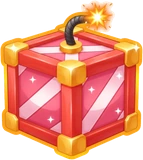
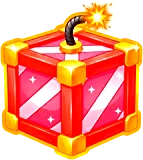
v324: car and rocket are seen crossing the board (they were never added to the screen), smaller and faster; glossier car, rocket and bombs; car on a coral tile, sweeper on a green tile; Candy Climb gives every helper; cart race background fix

diff --git a/app.js b/app.js
@@ -702,7 +702,7 @@
      Sugar Stars: a new level won without losing a heart gives a star; 10 stars open a surprise prize.
      First win of the day: the first level won each day pays double coins. ---------- */
   let cake = store.get('cake', { n: 0 }), sugar = store.get('sugar', { n: 0 });
-  { const pre = new Image(); pre.src = 'art/ic_bomb.webp'; }   // the cake's bomb picture is ready before the first bomb lands
+  { const pre = new Image(); pre.src = 'art/ic_bomb.webp?3'; }   // the cake's bomb picture is ready before the first bomb lands
   const CAKE_MAX = 3, SUGAR_AT = 10, CAKE_FROM = 10;   // Gumi's Cake opens at level 10: wins before it build nothing
   const cakeOpen = () => level >= CAKE_FROM;
   const cakeReveal = (k, size) => Math.min(k, Math.max(1, size - 3));   // at least three candies are always left to find
@@ -1137,7 +1137,7 @@
       if (s === 2) el.innerHTML = '<svg class="candy" style="--idur:' + (3 + Math.random() * 2.5).toFixed(1) + 's;--idelay:' + (0.4 + Math.random() * 1.6).toFixed(1) + 's"><use href="#c' + cur.cmap[cur.regions[y][x]] + '"/></svg>';
       else if (s === 1) el.innerHTML = '<span class="x' + (wrongX ? ' bad' : '') + '"></span>';
       else if (s === 3) el.innerHTML = QMARK;
-      else if (bomb) el.innerHTML = '<img class="cbomb" src="art/ic_bomb.webp" alt="" draggable="false">';
+      else if (bomb) el.innerHTML = '<img class="cbomb" src="art/ic_bomb.webp?3" alt="" draggable="false">';
       else el.innerHTML = '';
     }
     drawFound();
@@ -1329,7 +1329,7 @@
     if (m[1] === 'hop') window.CandokuDebug.hop(3, 4); else if (m[1] === 'coins') { show('home'); window.scrollTo(0, 0); window.CandokuDebug.flyCoins(40); }
     const at = location.search.match(/at=([\d.]+)/); if (at) setTimeout(() => document.getAnimations().forEach((x) => { const e = x.effect && x.effect.target; if (e && e.closest && e.closest('.hopper,.hopshadow,#fx')) { x.pause(); x.currentTime = +at[1]; } }), 80);
   }, 1500);
-  if (location.search.includes('dbg')) window.CandokuDebug = { cakeBuild: (n) => cakeBuild(n, $('medCake')), bonus9: () => openBonus(), plan: (lv) => { const p = boardPlan(lv); return { n: p.n, seeds: p.seeds, rate: p.rate, tier: tierOf(lv), key: POOL_KEY(lv), idx: POOL_IDX[lv], pool: POOL_KEY(lv) ? ((SEEDS[POOL_KEY(lv)] || {})[p.n] || []).length : 0 }; }, lgprev: (pts, daysAgo) => { const d = new Date(); d.setDate(d.getDate() - (daysAgo || 1)); store.set('lgprev', { day: d.getFullYear() + '-' + String(d.getMonth() + 1).padStart(2, '0') + '-' + String(d.getDate()).padStart(2, '0'), pts, chase: null }); maybeLeagueResult(() => {}); }, prizes: () => openLeaguePrizes(), bump: (p) => leagueBump(p), chase: () => chase, chaseAge: (min) => { chase.t = Date.now() - min * 60000; }, league: (from) => { if (cur) cur.leagueFrom = from; openLeague(() => {}); }, leagueList: (p) => leagueList(p).map((e) => e.name + ':' + e.points), setPts: (p) => { freshScore(); score.points = p; store.set('score', score); }, boardMs: (lv) => { const t = performance.now(); makeBoard(lv); return Math.round(performance.now() - t); }, cached: () => Object.keys(savedBoards), waiting: () => Object.keys(boardWait), worker: () => !!bWorker, toast: (t) => toast(t, true), chalLeft: (ms) => { if (cur && cur.timed) cur.left = ms; return cur && cur.left; }, bonus: () => startCart(() => {}), bonusAt: (b) => bonusLevelOf(b), hop: (f, t) => { mascotAt = f; renderHome(); show('home'); scrollToLevel(f); return hopTo(f, t); }, flyCoins: (n) => { coins += n; saveWallet(); flyCoins([...document.querySelectorAll('.mascot,#board')].find((e) => e.getBoundingClientRect().width) || document.body, n, 0); } , fail: () => { let k = 9; while (cur && !cur.done && k--) mistake(0, 0); }, solve: () => { const n = cur.n; for (let y = 0; y < n; y++) for (let x = 0; x < n; x++) { const v = cur.solution[y]; cur.state[y][x] = (Array.isArray(v) ? v[x] : v === x) ? 2 : 0; } paint(); if (solved()) win(); return solved(); }, state: () => ({ lives: livesNow(), next: nextLifeIn(), coins, level, hearts: cur && cur.hearts, done: cur && cur.done }), rate: () => { rate = { done: false, asked: 0 }; openRate(); }, party: () => candyParty(), mischief: () => mischief(), blow: () => foeBlow(), ending: () => showEnding(), storm: (n) => { storm = { start: Date.now(), hits: n || 0, cl: [] }; store.set('storm', storm); }, bossEnter: () => bossEnter(), miss: () => mistake(0, 0), setLives: (n) => { lives.n = n; lives.t = Date.now(); store.set('lives', lives); } };
+  if (location.search.includes('dbg')) window.CandokuDebug = { cur: () => cur, items: (o) => { Object.assign(items, o); saveWallet(); updateHintUi(); return items; }, cakeBuild: (n) => cakeBuild(n, $('medCake')), bonus9: () => openBonus(), plan: (lv) => { const p = boardPlan(lv); return { n: p.n, seeds: p.seeds, rate: p.rate, tier: tierOf(lv), key: POOL_KEY(lv), idx: POOL_IDX[lv], pool: POOL_KEY(lv) ? ((SEEDS[POOL_KEY(lv)] || {})[p.n] || []).length : 0 }; }, lgprev: (pts, daysAgo) => { const d = new Date(); d.setDate(d.getDate() - (daysAgo || 1)); store.set('lgprev', { day: d.getFullYear() + '-' + String(d.getMonth() + 1).padStart(2, '0') + '-' + String(d.getDate()).padStart(2, '0'), pts, chase: null }); maybeLeagueResult(() => {}); }, prizes: () => openLeaguePrizes(), bump: (p) => leagueBump(p), chase: () => chase, chaseAge: (min) => { chase.t = Date.now() - min * 60000; }, league: (from) => { if (cur) cur.leagueFrom = from; openLeague(() => {}); }, leagueList: (p) => leagueList(p).map((e) => e.name + ':' + e.points), setPts: (p) => { freshScore(); score.points = p; store.set('score', score); }, boardMs: (lv) => { const t = performance.now(); makeBoard(lv); return Math.round(performance.now() - t); }, cached: () => Object.keys(savedBoards), waiting: () => Object.keys(boardWait), worker: () => !!bWorker, toast: (t) => toast(t, true), chalLeft: (ms) => { if (cur && cur.timed) cur.left = ms; return cur && cur.left; }, bonus: () => startCart(() => {}), bonusAt: (b) => bonusLevelOf(b), hop: (f, t) => { mascotAt = f; renderHome(); show('home'); scrollToLevel(f); return hopTo(f, t); }, flyCoins: (n) => { coins += n; saveWallet(); flyCoins([...document.querySelectorAll('.mascot,#board')].find((e) => e.getBoundingClientRect().width) || document.body, n, 0); } , fail: () => { let k = 9; while (cur && !cur.done && k--) mistake(0, 0); }, solve: () => { const n = cur.n; for (let y = 0; y < n; y++) for (let x = 0; x < n; x++) { const v = cur.solution[y]; cur.state[y][x] = (Array.isArray(v) ? v[x] : v === x) ? 2 : 0; } paint(); if (solved()) win(); return solved(); }, state: () => ({ lives: livesNow(), next: nextLifeIn(), coins, level, hearts: cur && cur.hearts, done: cur && cur.done }), rate: () => { rate = { done: false, asked: 0 }; openRate(); }, party: () => candyParty(), mischief: () => mischief(), blow: () => foeBlow(), ending: () => showEnding(), storm: (n) => { storm = { start: Date.now(), hits: n || 0, cl: [] }; store.set('storm', storm); }, bossEnter: () => bossEnter(), miss: () => mistake(0, 0), setLives: (n) => { lives.n = n; lives.t = Date.now(); store.set('lives', lives); } };
   function saveWallet() { store.set('coins', coins); store.set('wands', wands); store.set('hints', hintsLeft); store.set('items', items); }
   function updateHintUi() {
     const set = (id, v) => { const e = $(id); if (e) e.textContent = v; };
@@ -1371,7 +1371,7 @@
     if (!cur || cur.done) return;
     S.unlock(); S.tap(); itemKind = kind;
     const it = ITEMS[kind], n = it.count();
-    $('itemIcon').src = 'art/ic_' + it.icon + '.webp';
+    $('itemIcon').src = 'art/ic_' + it.icon + '.webp?3';
     $('hintLeft').textContent = n; $('itemTitle').textContent = it.name; $('itemDesc').textContent = it.desc; $('hintEarn').textContent = it.earn();
     const b = $('hintUse');
     if (n > 0) { b.textContent = 'Use 1 ' + it.name.toLowerCase(); b.disabled = false; }
@@ -1431,12 +1431,30 @@
     cur.vehicleArmed = null; $('board').classList.remove('lens'); hideToast();
     items[kind]--; saveWallet(); updateHintUi(); snapshot();
     const n = cur.n, line = []; for (let i = 0; i < n; i++) line.push(kind === 'car' ? [y, i] : [n - 1 - i, x]);   // the car drives left to right, the rocket flies from the bottom up
+    // the car / rocket is big and slow enough to be seen crossing the whole line, the line lights up first, and it leaves a sparkly trail
     const first = cellEl(line[0][0], line[0][1]).getBoundingClientRect(), last = cellEl(line[n - 1][0], line[n - 1][1]).getBoundingClientRect();
-    const v = document.createElement('img'); v.src = 'art/ic_' + kind + '.webp'; v.className = 'vehicle ' + kind; v.alt = ''; v.draggable = false;
-    const cw = cellEl(line[0][0], line[0][1]).offsetWidth || first.width, sz = cw * (kind === 'car' ? 1.5 : 1.7);   // the square's real size, even while the board is still popping in if (kind === 'car') v.style.width = sz + 'px'; else v.style.height = sz + 'px'; fxLayer().appendChild(v);
-    const cx = (r) => r.left + r.width / 2 - sz / 2, cy = (r) => r.top + r.height / 2 - sz / 2, D = 260 + n * 85;
-    const from = kind === 'car' ? [first.left - sz, cy(first)] : [cx(first), first.bottom], to = kind === 'car' ? [last.right, cy(last)] : [cx(last), last.top - sz];
-    v.animate([{ transform: 'translate(' + from[0] + 'px,' + from[1] + 'px)' }, { transform: 'translate(' + to[0] + 'px,' + to[1] + 'px)' }], { duration: D, easing: 'linear', fill: 'forwards' }).onfinish = () => v.remove();
+    const cw = cellEl(line[0][0], line[0][1]).offsetWidth || first.width;
+    const v = document.createElement('img'); v.src = 'art/ic_' + kind + '.webp?3'; v.className = 'vehicle ' + kind; v.alt = ''; v.draggable = false;
+    const W = kind === 'car' ? cw * 1.6 : cw * 1.05, Hh = kind === 'car' ? cw * 0.85 : cw * 1.7;
+    v.style.width = W + 'px'; v.style.height = Hh + 'px'; fxLayer().appendChild(v);
+    const D = 450 + n * 110;
+    const from = kind === 'car' ? [first.left - W, first.top + first.height / 2 - Hh / 2] : [first.left + first.width / 2 - W / 2, first.bottom];
+    const to = kind === 'car' ? [last.right, last.top + last.height / 2 - Hh / 2] : [last.left + last.width / 2 - W / 2, last.top - Hh];
+    const fr = (p, bob) => ({ transform: 'translate(' + (from[0] + (to[0] - from[0]) * p) + 'px,' + (from[1] + (to[1] - from[1]) * p + bob) + 'px)' + (kind === 'rocket' ? ' rotate(' + (bob / 2) + 'deg)' : '') });
+    const keys = []; for (let i = 0; i <= 12; i++) keys.push(Object.assign(fr(i / 12, i % 2 ? -cw * 0.08 : 0), { offset: i / 12 }));
+    line.forEach(([yy, xx]) => { const el = cellEl(yy, xx); if (el) el.classList.add('lane'); });
+    const anim = v.animate(keys, { duration: D, easing: 'linear', fill: 'forwards' });
+    const cols = ['#ff5fa2', '#ffd21f', '#46d17f', '#38b8ff', '#a35cff', '#ffffff'];
+    const trail = setInterval(() => {
+      const r = v.getBoundingClientRect(); if (!r.width) return;
+      for (let k = 0; k < 2; k++) {
+        const p = document.createElement('i'); p.className = 'v-spark';
+        p.style.left = (kind === 'car' ? r.left + r.width * 0.12 : r.left + r.width / 2 + (Math.random() - 0.5) * r.width * 0.4) + 'px';
+        p.style.top = (kind === 'car' ? r.top + r.height * (0.45 + Math.random() * 0.35) : r.bottom - r.height * 0.08) + 'px';
+        p.style.background = cols[Math.floor(Math.random() * cols.length)]; fxLayer().appendChild(p); setTimeout(() => p.remove(), 650);
+      }
+    }, 45);
+    anim.onfinish = () => { clearInterval(trail); v.remove(); line.forEach(([yy, xx]) => { const el = cellEl(yy, xx); if (el) el.classList.remove('lane'); }); };
     S.whoosh(); buzz([15, 20, 15]);
     let placed = false;
     line.forEach(([yy, xx], i) => setTimeout(() => {
@@ -1447,7 +1465,7 @@
       else { if (s !== 1) cur.state[yy][xx] = 1; S.x(); }
       paint();
       if (i === n - 1) { spotlight(line, 2500); saveGame(); if (placed && V) V.candy(); if (solved()) win(); }
-    }, (D * (i + 1)) / (n + 1)));
+    }, D * (kind === 'car' ? (i + 1.2) / (n + 2.1) : (i + 1) / (n + 2.2))));
   }
   function armLens() {
     if (!cur || cur.done || items.lens <= 0) return;
@@ -2921,7 +2939,7 @@
 
   /* ---------- Candy Climb: a timed challenge. Press Start and you have 24 hours: every level you win lifts the bear one
      platform, every level you lose drops him one. Each platform holds a bigger prize; a golden chest waits on top. Once a day. ---------- */
-  const CLIMB = [{ coins: 2 }, { inf: 15 }, { coins: 4, sweeper: 1 }, { hints: 1 }, { coins: 6 }, { inf: 30 }, { coins: 15, wands: 1 }], CLIMB_MS = 24 * 3600e3;
+  const CLIMB = [{ coins: 3, hints: 1 }, { coins: 4, lens: 1 }, { coins: 5, sweeper: 1 }, { coins: 6, double: 1 }, { coins: 8, shield: 1 }, { coins: 10, rocket: 1 }, { coins: 15, car: 1, wands: 1 }], CLIMB_MS = 24 * 3600e3;
   let climb = Object.assign({ start: 0, step: 0, cl: [], day: '' }, store.get('climb', {}));
   const climbOn = () => climb.start > 0 && Date.now() < climb.start + CLIMB_MS;
   const climbLeft = () => Math.max(0, climb.start + CLIMB_MS - Date.now());
@@ -3360,7 +3378,7 @@
     };
     function draw() {
       const A = arcArt, ok = (im) => im && im.complete && im.naturalWidth;
-      if (ok(A.cart_bg)) { const off = snap(scroll % 300), n0 = Math.floor(scroll / 300); for (let y = -300 + off, i = 0; y < H; y += 300, i++) { if ((n0 - i) & 1) { g.save(); g.translate(0, y + 300.5); g.scale(1, -1); g.drawImage(A.cart_bg, 0, 0, 300, 301); g.restore(); } else g.drawImage(A.cart_bg, 0, y, 300, 301); } }   // every second tile is mirrored, so the joins between tiles cannot be seen else { g.fillStyle = '#5a3a1e'; g.fillRect(0, 0, 300, H); }
+      if (ok(A.cart_bg)) { const off = snap(scroll % 300), n0 = Math.floor(scroll / 300); for (let y = -300 + off, i = 0; y < H; y += 300, i++) { if ((n0 - i) & 1) { g.save(); g.translate(0, y + 300.5); g.scale(1, -1); g.drawImage(A.cart_bg, 0, 0, 300, 301); g.restore(); } else g.drawImage(A.cart_bg, 0, y, 300, 301); } } else { g.fillStyle = '#5a3a1e'; g.fillRect(0, 0, 300, H); }   // every second tile is mirrored, so the joins between tiles cannot be seen
       g.fillStyle = vg; g.fillRect(0, 0, 300, 70);
       items.forEach((it) => {
         const x = LANES[it.lane], y = snap(it.y);

diff --git a/sw.js b/sw.js
@@ -1,5 +1,5 @@
 /* Candoku service worker: cache the app shell so it works offline. Bump VERSION on each release. */
-const VERSION = 'candoku-v318';
+const VERSION = 'candoku-v324';
 const FILES = ['./', 'index.html', 'style.css', 'engine.js', 'hints.js', 'boardworker.js', 'seeds.js', 'sound.js', 'music.js', 'voice.js', 'app.js', 'manifest.webmanifest', 'icon-192.png', 'icon-180.png', 'icon-192.png', 'icon-512.png', 'icon-maskable-512.png', 'icons/lollipop.png', 'icons/candy.png', 'icons/chocolate_bar.png', 'icons/doughnut.png', 'icons/cupcake.png', 'icons/cookie.png', 'icons/cherries.png', 'icons/soft_ice_cream.png', 'icons/shortcake.png', 'icons/dango.png', 'art/bg_0.jpg', 'art/bg_1.jpg', 'art/bg_2.jpg', 'art/bg_3.jpg', 'art/bg_4.jpg', 'art/bg_5.jpg', 'art/bg_6.jpg', 'art/bg_7.jpg', 'art/bg_8.jpg', 'art/ic_undo.webp', 'art/ic_hint.webp', 'art/ic_wand.webp', 'art/ic_maybe.webp', 'art/ic_restart.webp', 'art/ic_coin.webp', 'art/ic_chest.webp', 'art/ic_wheel.webp', 'art/ic_games.webp', 'art/nav_gifts.webp', 'art/nav_quests.webp', 'art/nav_home.webp', 'art/nav_shop.webp', 'art/nav_rank.webp', 'art/ic_heart.webp', 'art/ic_heart_off.webp', 'art/cd_lollipop.webp', 'art/cd_candy.webp', 'art/cd_chocolate_bar.webp', 'art/cd_doughnut.webp', 'art/cd_cupcake.webp', 'art/cd_cookie.webp', 'art/cd_cherries.webp', 'art/cd_soft_ice_cream.webp', 'art/cd_shortcake.webp', 'art/cd_dango.webp', 'art/tool_undo.webp', 'art/tool_hint.webp', 'art/tool_wand.webp', 'art/tool_maybe.webp', 'art/tool_maybe_green.webp', 'art/tool_restart.webp', 'art/ribbon.webp', 'art/ribbon_teal.webp', 'art/panel_blue.webp', 'art/ic_shield.webp', 'art/ic_double.webp', 'art/ic_sweeper.webp', 'art/ic_lens.webp', 'audio/voice/reward1.mp3', 'audio/voice/reward2.mp3', 'audio/voice/reward3.mp3', 'audio/voice/bigreward.mp3', 'audio/voice/wandget.mp3', 'art/gumi_pirate.webp', 'art/gumi_astronaut.webp', 'art/gumi_chef.webp', 'art/gumi_ninja.webp', 'art/btn_green.webp', 'art/btn_orange.webp', 'art/btn_blue.webp', 'art/logo.webp', 'art/ribbon_0.webp', 'art/ribbon_1.webp', 'art/ribbon_2.webp', 'art/ribbon_3.webp', 'art/ribbon_4.webp', 'art/ribbon_5.webp', 'art/ribbon_6.webp', 'art/ribbon_7.webp', 'art/ribbon_8.webp', 'art/ribbon_9.webp', 'art/gumi_win.webp', 'art/gumi_jump.webp', 'art/shoot_bg.jpg', 'art/cart_bg2.jpg', 'art/shoot_cannon.webp', 'art/shoot_ball.webp', 'art/shoot_ball_y.webp', 'art/shoot_ball_b.webp', 'art/shoot_ball_g.webp', 'art/shoot_hole.webp', 'art/cart_rock.webp', 'art/cart_bear2.webp', 'art/cart_rival2.webp',  'art/hoop_machine.jpg', 'art/hoop_ring.webp', 'art/hoop_ball_g.webp', 'art/hoop_ball_r.webp', 'art/climb_plat.webp', 'art/ev_climb.webp', 'art/ui_btn_icon.webp', 'art/ui_pill_dark.webp', 'art/ui_pill_cream.webp', 'art/node_blue.webp', 'art/node_hard.webp', 'art/node_vhard.webp', 'art/node_extreme.webp', 'art/node_lock.webp', 'art/ev_shooter.webp', 'art/ev_hoop.webp', 'art/ev_cart.webp', 'art/ev_pass.webp', 'art/ev_rush.webp', 'art/ev_memory.webp', 'art/ev_toss.webp', 'art/ev_odd.webp', 'art/ev_jars.webp',  'art/3d_qcard.webp', 'art/3d_chest_small.webp', 'art/3d_chest_med.webp', 'art/3d_chest_large.webp', 'art/gumi_pirate_stand.webp', 'art/gumi_pirate_win.webp', 'art/gumi_cowboy_stand.webp', 'art/gumi_cowboy_win.webp', 'art/gumi_wizard_stand.webp', 'art/gumi_wizard_win.webp', 'art/gumi_king_stand.webp', 'art/gumi_king_win.webp', 'art/gumi_ninja_stand.webp', 'art/gumi_ninja_win.webp',  'art/gumi_chef_stand.webp', 'art/gumi_chef_win.webp', 'art/gumi_fire_stand.webp', 'art/gumi_fire_win.webp', 'art/gumi_blink.webp', 'art/gumi_sad.webp', 'art/tool_restart_red.webp', 'art/wheel_ring.webp', 'art/wheel_hub.webp', 'art/wheel_pointer.webp', 'art/tool_sweeper.webp', 'art/tool_lens.webp', 'art/gumi.webp', 'art/gumi_hero.webp', 'art/star_gold.webp', 'art/star_grey.webp', 'art/gumi_blue.webp', 'art/gumi_red.webp', 'art/panel.webp', 'audio/sfx/n0.mp3', 'audio/sfx/n1.mp3', 'audio/sfx/n2.mp3', 'audio/sfx/n3.mp3', 'audio/sfx/n4.mp3', 'audio/sfx/n5.mp3', 'audio/sfx/n6.mp3', 'audio/sfx/n7.mp3', 'audio/sfx/n8.mp3', 'audio/sfx/fanfare.mp3', 'audio/sfx/stars.mp3', 'audio/music/w4.mp3', 'audio/music/w5.mp3', 'audio/music/w6.mp3', 'audio/music/w7.mp3', 'audio/music/w8.mp3', 'audio/music/menu.mp3', 'audio/music/w0.mp3', 'audio/music/w1.mp3', 'audio/music/w2.mp3', 'audio/music/w3.mp3', 'audio/voice/close.mp3', 'audio/voice/delicious.mp3', 'audio/voice/divine.mp3', 'audio/voice/first.mp3', 'audio/voice/go.mp3', 'audio/voice/hard.mp3', 'audio/voice/intro1.mp3', 'audio/voice/intro2.mp3', 'audio/voice/intro3.mp3', 'audio/voice/letsplay.mp3', 'audio/voice/lose.mp3', 'audio/voice/nice.mp3', 'audio/voice/perfect.mp3', 'audio/voice/ready.mp3', 'audio/voice/sugartastic.mp3', 'audio/voice/tasty.mp3', 'audio/voice/veryhard.mp3', 'audio/voice/extremehard.mp3', 'audio/voice/verytasty.mp3', 'audio/voice/welcome.mp3', 'audio/voice/yummy.mp3', 'audio/voice/es/mmmsweet.mp3', 'audio/voice/es/sugarrush.mp3', 'audio/voice/es/candylicious.mp3', 'audio/voice/es/sosweet.mp3', 'audio/voice/es/bontastic.mp3', 'audio/voice/es/treattastic.mp3', 'audio/voice/es/whatatreat.mp3', 'audio/voice/es/f/first.mp3', 'audio/voice/es/f/yummy.mp3', 'audio/voice/es/f/tasty.mp3', 'audio/voice/es/f/nice.mp3', 'audio/voice/es/f/delicious.mp3', 'audio/voice/es/f/verytasty.mp3', 'audio/voice/es/f/mmmsweet.mp3', 'audio/voice/es/f/sugarrush.mp3', 'audio/voice/es/f/candylicious.mp3', 'audio/voice/es/f/sosweet.mp3', 'audio/voice/es/f/bontastic.mp3', 'audio/voice/es/f/treattastic.mp3', 'audio/voice/es/f/whatatreat.mp3', 'audio/voice/f/first.mp3', 'audio/voice/f/yummy.mp3', 'audio/voice/f/tasty.mp3', 'audio/voice/f/nice.mp3', 'audio/voice/f/delicious.mp3', 'audio/voice/f/verytasty.mp3', 'audio/voice/f/mmmsweet.mp3', 'audio/voice/f/sugarrush.mp3', 'audio/voice/f/candylicious.mp3', 'audio/voice/f/sosweet.mp3', 'audio/voice/f/bontastic.mp3', 'audio/voice/f/treattastic.mp3', 'audio/voice/f/whatatreat.mp3', 'audio/voice/whatatreat.mp3', 'audio/voice/mmmsweet.mp3', 'audio/voice/sugarrush.mp3', 'audio/voice/candylicious.mp3', 'audio/voice/sosweet.mp3', 'audio/voice/gumtastic.mp3', 'audio/voice/bontastic.mp3', 'audio/voice/treattastic.mp3', 'art/3d_cake_1.webp', 'art/3d_cake_2.webp', 'art/3d_cake_3.webp', 'art/cake_stage_1.webp', 'art/cake_stage_2.webp', 'art/cake_stage_3.webp', 'art/ic_sugarstar.webp', 'art/ic_bomb.webp', 'art/ic_car.webp', 'art/ic_rocket.webp', 'art/tool_car.webp', 'art/tool_rocket.webp', 'audio/voice/z0.mp3', 'audio/voice/z1.mp3', 'audio/voice/z2.mp3', 'audio/voice/z3.mp3', 'audio/voice/z4.mp3', 'audio/voice/z5.mp3', 'audio/voice/z6.mp3', 'audio/voice/z7.mp3', 'audio/voice/z8.mp3'];
 const CORE = ['./', 'index.html', 'manifest.webmanifest', 'art/splash_4k.jpg', 'art/logo_bonbox_hd.webp'];
 self.addEventListener('install', (e) => {

diff --git a/index.html b/index.html
@@ -14,7 +14,7 @@
 <link rel="apple-touch-icon" href="icon-180.png?v=85">
 <link rel="preconnect" href="https://fonts.googleapis.com"><link rel="preconnect" href="https://fonts.gstatic.com" crossorigin>
 <link rel="stylesheet" href="https://fonts.googleapis.com/css2?family=Nunito:wght@700;800;900&display=swap" media="print" onload="this.media='all'">
-<link rel="stylesheet" href="style.css?v=318">
+<link rel="stylesheet" href="style.css?v=324">
 <link rel="preload" as="image" href="art/splash_4k.jpg?b2"><link rel="preload" as="image" href="art/logo_bonbox_hd.webp">
 <style>
[1 lines of base64/hex data omitted]
@@ -202,14 +202,14 @@
     <button class="btn" id="undoBtn" type="button" aria-label="Undo" title="Undo"><img loading="lazy" decoding="async" class="tico" src="art/tool_undo.webp" alt="" draggable="false"></button>
     <button class="btn" id="hintBtn" type="button" aria-label="Hint" title="Hint"><img loading="lazy" decoding="async" class="tico" src="art/tool_hint.webp" alt="" draggable="false"><i class="badge" id="hintBadge">0</i></button>
     <button class="btn" id="wandBtn" type="button" aria-label="Magic wand" title="Magic wand"><img loading="lazy" decoding="async" class="tico" src="art/tool_wand.webp" alt="" draggable="false"><i class="badge" id="wandBadge">0</i></button>
-    <button class="btn" id="sweepBtn" type="button" aria-label="Sweeper" title="Sweeper"><img loading="lazy" decoding="async" class="tico" src="art/tool_sweeper.webp" alt="" draggable="false"><i class="badge" id="sweepBtnBadge">0</i></button>
+    <button class="btn" id="sweepBtn" type="button" aria-label="Sweeper" title="Sweeper"><img loading="lazy" decoding="async" class="tico" src="art/tool_sweeper.webp?3" alt="" draggable="false"><i class="badge" id="sweepBtnBadge">0</i></button>
     <button class="btn" id="lensBtn" type="button" aria-label="Magnifier" title="Magnifier"><img loading="lazy" decoding="async" class="tico" src="art/tool_lens.webp" alt="" draggable="false"><i class="badge" id="lensBtnBadge">0</i></button>
-    <button class="btn" id="carBtn" type="button" aria-label="Gummy Car" title="Gummy Car"><img decoding="async" class="tico" src="art/tool_car.webp" alt="" draggable="false"><i class="badge" id="carBtnBadge">0</i></button>
-    <button class="btn" id="rocketBtn" type="button" aria-label="Candy Rocket" title="Candy Rocket"><img decoding="async" class="tico" src="art/tool_rocket.webp" alt="" draggable="false"><i class="badge" id="rocketBtnBadge">0</i></button>
+    <button class="btn" id="carBtn" type="button" aria-label="Gummy Car" title="Gummy Car"><img decoding="async" class="tico" src="art/tool_car.webp?4" alt="" draggable="false"><i class="badge" id="carBtnBadge">0</i></button>
+    <button class="btn" id="rocketBtn" type="button" aria-label="Candy Rocket" title="Candy Rocket"><img decoding="async" class="tico" src="art/tool_rocket.webp?3" alt="" draggable="false"><i class="badge" id="rocketBtnBadge">0</i></button>
     <button class="btn" id="maybeBtn" hidden type="button" aria-pressed="false" aria-label="Maybe" title="Maybe"><img loading="lazy" decoding="async" class="tico" src="art/tool_maybe.webp" alt="" draggable="false"></button>
     <button class="btn" id="clearBtn" hidden type="button" aria-label="Restart" title="Restart"><img loading="lazy" decoding="async" class="tico" src="art/tool_restart_red.webp" alt="" draggable="false"></button>
   </div>
-  <p class="help">Tap: X (tap again to remove). Double tap: candy. Hold a square or use Maybe to mark a ? <span class="ver">v318</span></p>
+  <p class="help">Tap: X (tap again to remove). Double tap: candy. Hold a square or use Maybe to mark a ? <span class="ver">v324</span></p>
 </main>
 
 <!-- WIN -->
@@ -632,13 +632,13 @@
   <button type="button" id="navShop"><img loading="lazy" decoding="async" class="navico" src="art/nav_shop.webp" alt="" draggable="false"><span>Shop</span></button>
   <button type="button" id="navRank"><img loading="lazy" decoding="async" class="navico" src="art/nav_rank.webp" alt="" draggable="false"><span>Ranking</span></button>
 </nav>
-<script src="i18n.js?v=318"></script>
-<script src="engine.js?v=318"></script>
-<script src="hints.js?v=318"></script>
-<script src="seeds.js?v=318"></script>
-<script src="sound.js?v=318"></script>
-<script src="music.js?v=318"></script>
-<script src="voice.js?v=318"></script>
-<script src="app.js?v=318"></script>
+<script src="i18n.js?v=324"></script>
+<script src="engine.js?v=324"></script>
+<script src="hints.js?v=324"></script>
+<script src="seeds.js?v=324"></script>
+<script src="sound.js?v=324"></script>
+<script src="music.js?v=324"></script>
+<script src="voice.js?v=324"></script>
+<script src="app.js?v=324"></script>
 </body>
 </html>

diff --git a/style.css b/style.css
@@ -2211,7 +2211,7 @@ body.noads #shopFree,body.noads #shopAds,body.noads .shoph.adsonly,body.noads #l
 .sides .med .disc{box-shadow:inset 0 -4px 0 rgba(0,0,0,.14),0 0 0 3px #f3dcae,0 0 9px 3px rgba(255,226,170,.75)!important}
 .sides .med.ready .disc{box-shadow:inset 0 -4px 0 rgba(0,0,0,.14),0 0 0 3px #f3dcae,0 0 16px 5px #ffe14d!important}
 /* the cake's candy bombs on the board */
-.cell .cbomb{position:absolute;left:1%;top:0;width:98%;height:98%;object-fit:contain;pointer-events:none;filter:drop-shadow(0 0 2px #fff) drop-shadow(0 2px 2px rgba(60,0,40,.55));animation:bombWobble 1.6s ease-in-out infinite}
+.cell .cbomb{position:absolute;left:1%;top:0;width:98%;height:98%;object-fit:contain;pointer-events:none;filter:saturate(1.15) drop-shadow(0 0 2px #fff) drop-shadow(0 0 5px rgba(255,230,120,.9)) drop-shadow(0 2px 2px rgba(60,0,40,.55));animation:bombWobble 1.6s ease-in-out infinite}
 @keyframes bombWobble{0%,100%{transform:rotate(-6deg) scale(1)}50%{transform:rotate(6deg) scale(1.06)}}
 .cell.bombin .cbomb{animation:bombIn .5s cubic-bezier(.34,1.56,.64,1),bombWobble 1.6s ease-in-out .5s infinite}
 @keyframes bombIn{0%{transform:scale(0) rotate(-40deg);opacity:0}100%{transform:scale(1) rotate(0);opacity:1}}
@@ -2226,3 +2226,7 @@ body.noads #shopFree,body.noads #shopAds,body.noads .shoph.adsonly,body.noads #l
 #maybeBtn[hidden],#clearBtn[hidden]{display:none!important}
 #qaQuit{background:url(art/btn_orange.webp) center/100% 100% no-repeat!important}
 #qaReplay{background:url(art/btn_green.webp) center/100% 100% no-repeat!important}
+.vehicle{object-fit:contain;z-index:47!important;filter:drop-shadow(0 4px 4px rgba(60,0,40,.5)) drop-shadow(0 0 6px rgba(255,255,255,.9))!important}
+.v-spark{position:fixed;z-index:46;width:9px;height:9px;margin:-4px 0 0 -4px;border-radius:50%;pointer-events:none;box-shadow:0 0 6px currentColor;animation:vspark .65s ease-out forwards}
+@keyframes vspark{0%{transform:scale(1);opacity:1}100%{transform:scale(.2) translateY(6px);opacity:0}}
+.board .cell.lane{box-shadow:0 0 0 3px #fff,0 0 12px 3px rgba(255,225,77,.95)!important;z-index:2}
